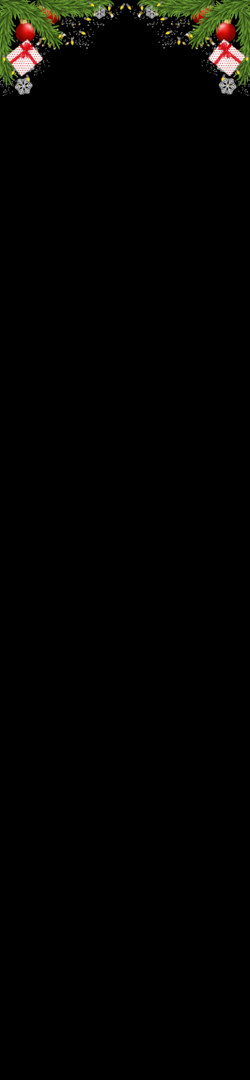
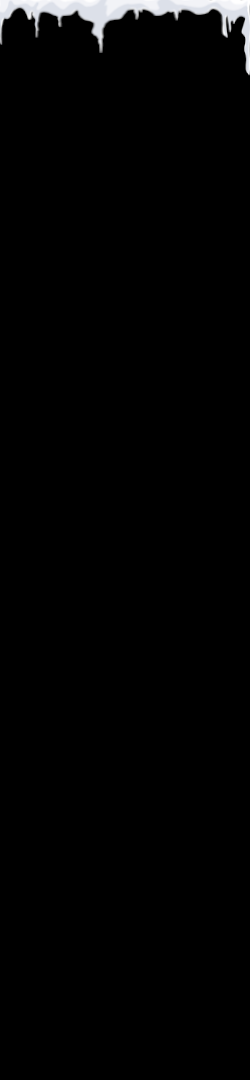
Add snowfall to christmas theme

Changed region(s): [[0.0, 0.0, 1.0, 0.0917]]

diff --git a/src/components/Common/Sidebar.tsx b/src/components/Common/Sidebar.tsx
@@ -5,7 +5,7 @@ import SidebarItem from './SidebarItem';
 import { useSelector } from 'react-redux';
 import { RootState } from '../../redux/store';
 import { getMainRadio } from '../../redux/selectors/radios';
-import { getSidebarBackground } from '../../utils/themes';
+import { Theme, getActiveTheme, getSidebarBackground } from '../../utils/themes';
 
 interface SidebarProps {
   onCollapse: () => void;
@@ -28,6 +28,11 @@ function Sidebar({ onCollapse, collapsed }: SidebarProps) {
       className={`ui sidebar inverted vertical menu visible ${collapsed ? 'collapsed' : ''}`}
       style={{ backgroundImage: `url(${getSidebarBackground()})` }}
     >
+      {getActiveTheme() === Theme.CHRISTMAS && (
+        <div className='Snowflakes'>
+          {Array(40).fill(<div className='Snowflake' />)}
+        </div>
+      )}
       <div className='CollapseContainer'>
         <button className='ui icon button Collapse' onClick={onCollapse}>
           {collapsed ? <i className='angle double right icon'></i> : <i className='angle double left icon'></i>}

diff --git a/src/assets/scss/_theme.scss b/src/assets/scss/_theme.scss
@@ -13,3 +13,46 @@ img.HeaderDecoration {
   right: 50px;
   bottom: 55px;
 }
+
+.Snowflakes {
+  position: absolute;
+  top: 0;
+  height: 100%;
+  width: 100%;
+  overflow: hidden;
+  pointer-events: none;
+
+  .Snowflake {
+    --size: 1vw;
+    width: var(--size);
+    height: var(--size);
+    background: white;
+    border-radius: 50%;
+    position: absolute;
+    top: -5vh;
+    pointer-events: none;
+    z-index: 99;
+    filter: drop-shadow(0 0 7px white) blur(#{random(10)*0.1}px);
+  }
+
+  @keyframes snowfall {
+    0% {
+      transform: translate3d(var(--left-ini), 0, 0);
+    }
+
+    100% {
+      transform: translate3d(var(--left-end), 110vh, 0);
+    }
+  }
+
+  @for $i from 1 through 40 {
+    .Snowflake:nth-child(#{$i}) {
+      --size: #{random(4) * 0.2}vw;
+      --left-ini: #{random(25) - 10}vw;
+      --left-end: #{random(25) - 10}vw;
+      left: #{random(60)}px;
+      animation: snowfall #{5 + random(10)}s linear infinite;
+      animation-delay: -#{random(10)}s;
+    }
+  }
+}

diff --git a/src/assets/scss/_sidebar.scss b/src/assets/scss/_sidebar.scss
@@ -3,7 +3,8 @@
   background-color: $sidebar-background-colour !important;
   width: auto !important;
   background-repeat: no-repeat !important;
-  background-position-x: center !important;
+  // background-position-x: center !important;
+  overflow: hidden;
 
   .CollapseContainer {
     display: flex;
